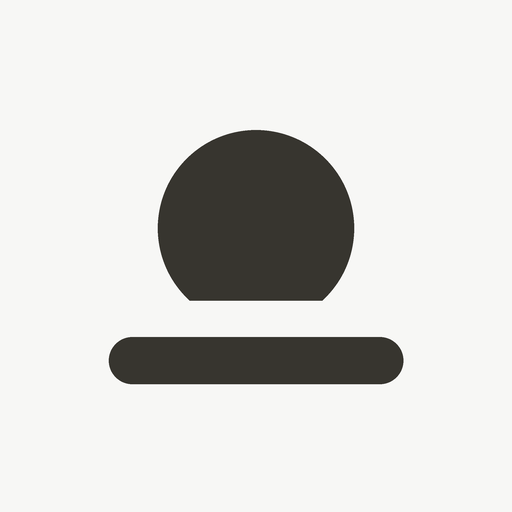
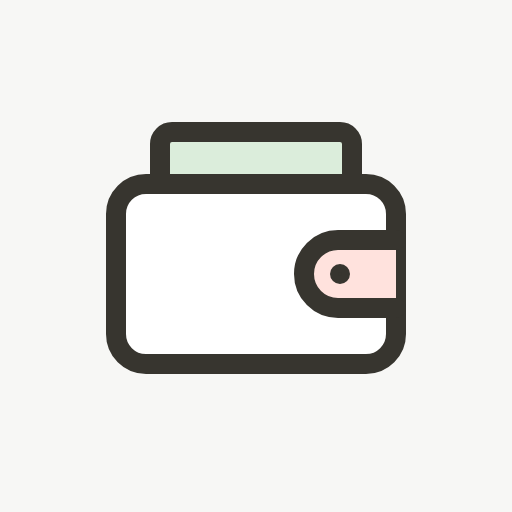
Add files via upload

Changed region(s): [[0.1875, 0.2188, 0.8125, 0.75]]

diff --git a/index.html b/index.html
@@ -436,7 +436,7 @@ const I = {
   gear: svg('<circle cx="8" cy="8" r="2.1"/><path d="M8 1.8v1.7M8 12.5v1.7M1.8 8h1.7M12.5 8h1.7M3.6 3.6l1.2 1.2M11.2 11.2l1.2 1.2M12.4 3.6l-1.2 1.2M4.8 11.2l-1.2 1.2"/>'),
   tag: svg('<path d="M2.5 8.3V2.5h5.8l5.2 5.2-5.8 5.8z"/><circle cx="5.4" cy="5.4" r=".9"/>')
 };
-const LOGO = '<svg viewBox="0 0 24 24" width="20" height="20" aria-hidden="true"><rect x="1.5" y="1.5" width="21" height="21" rx="5" fill="none" stroke="currentColor" stroke-width="2"/><path d="M8.9 14.1A4.6 4.6 0 1 1 15.1 14.1Z" fill="currentColor"/><path d="M6.2 16.9H17.8" fill="none" stroke="currentColor" stroke-width="2.2" stroke-linecap="round"/></svg>';
+const LOGO = '<svg viewBox="0 0 24 24" width="20" height="20" fill="none" stroke="currentColor" stroke-width="1.8" stroke-linecap="round" stroke-linejoin="round" aria-hidden="true"><path d="M7.5 8V6a1.2 1.2 0 0 1 1.2-1.2h6.6A1.2 1.2 0 0 1 16.5 6v2"/><rect x="3" y="8" width="18" height="11.5" rx="2.6"/><path d="M21 11.6h-3.4a2.15 2.15 0 0 0 0 4.3H21"/><circle cx="17.7" cy="13.75" r=".7" fill="currentColor" stroke="none"/></svg>';
 
 /* ───────── helpers ───────── */
 const $ = (s, r = document) => r.querySelector(s);

diff --git a/sw.js b/sw.js
@@ -1,5 +1,5 @@
 // Offline cache for Pocket. Bump VERSION whenever you upload a new index.html.
-const VERSION = 'pocket-3';
+const VERSION = 'pocket-4';
 const FILES = ['./', 'index.html', 'manifest.webmanifest', 'icon.svg', 'icon-192.png', 'icon-512.png'];
 self.addEventListener('install', e => e.waitUntil(caches.open(VERSION).then(c => c.addAll(FILES)).then(() => self.skipWaiting())));
 self.addEventListener('activate', e => e.waitUntil(caches.keys().then(ks => Promise.all(ks.filter(k => k !== VERSION).map(k => caches.delete(k)))).then(() => self.clients.claim())));
